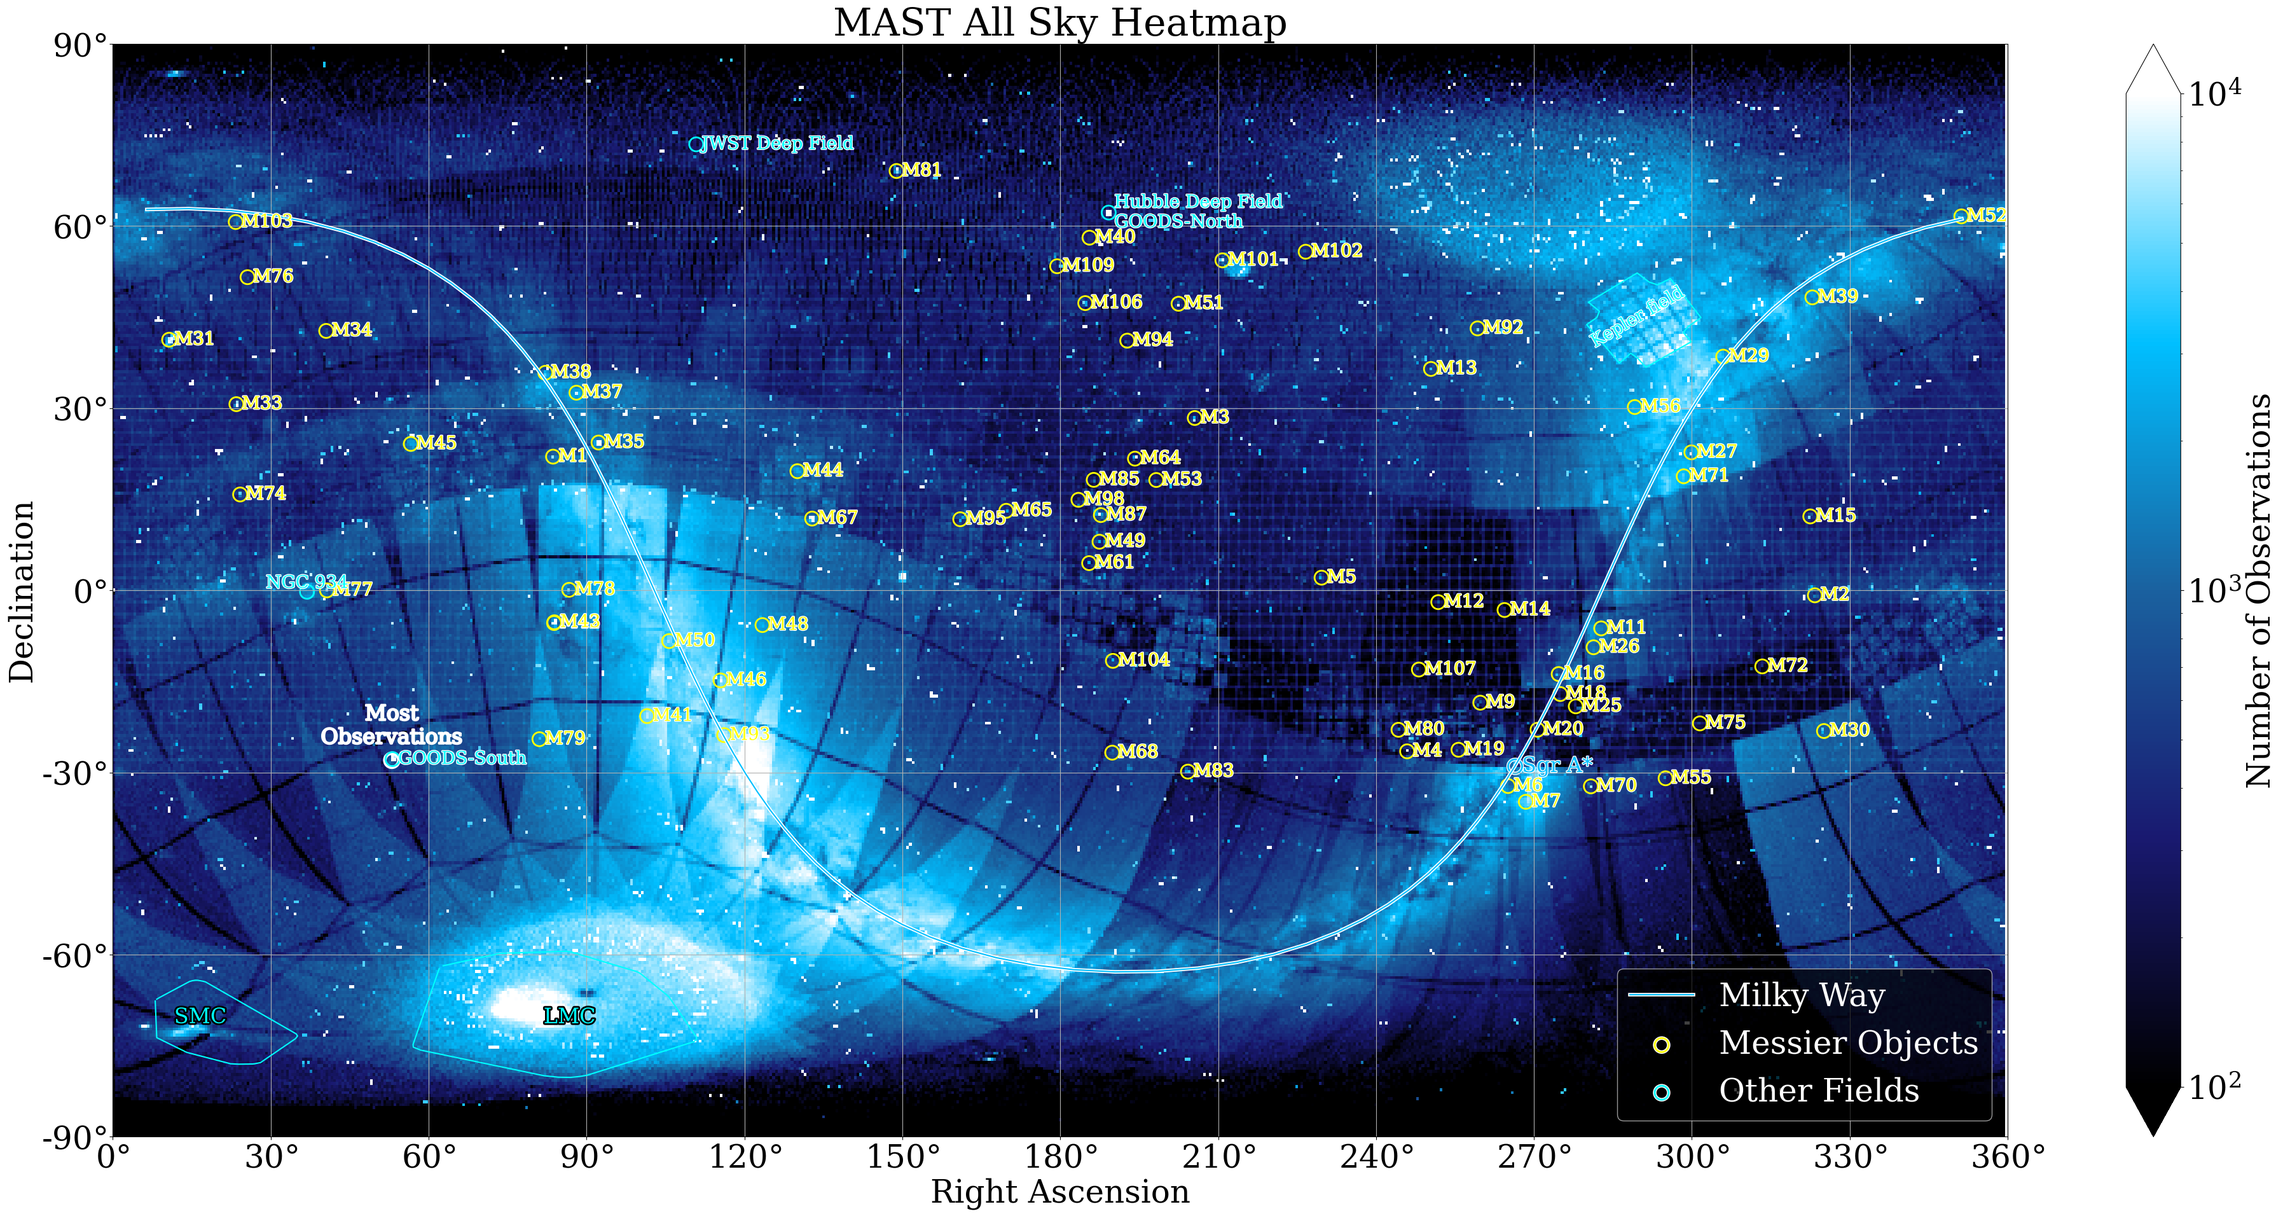
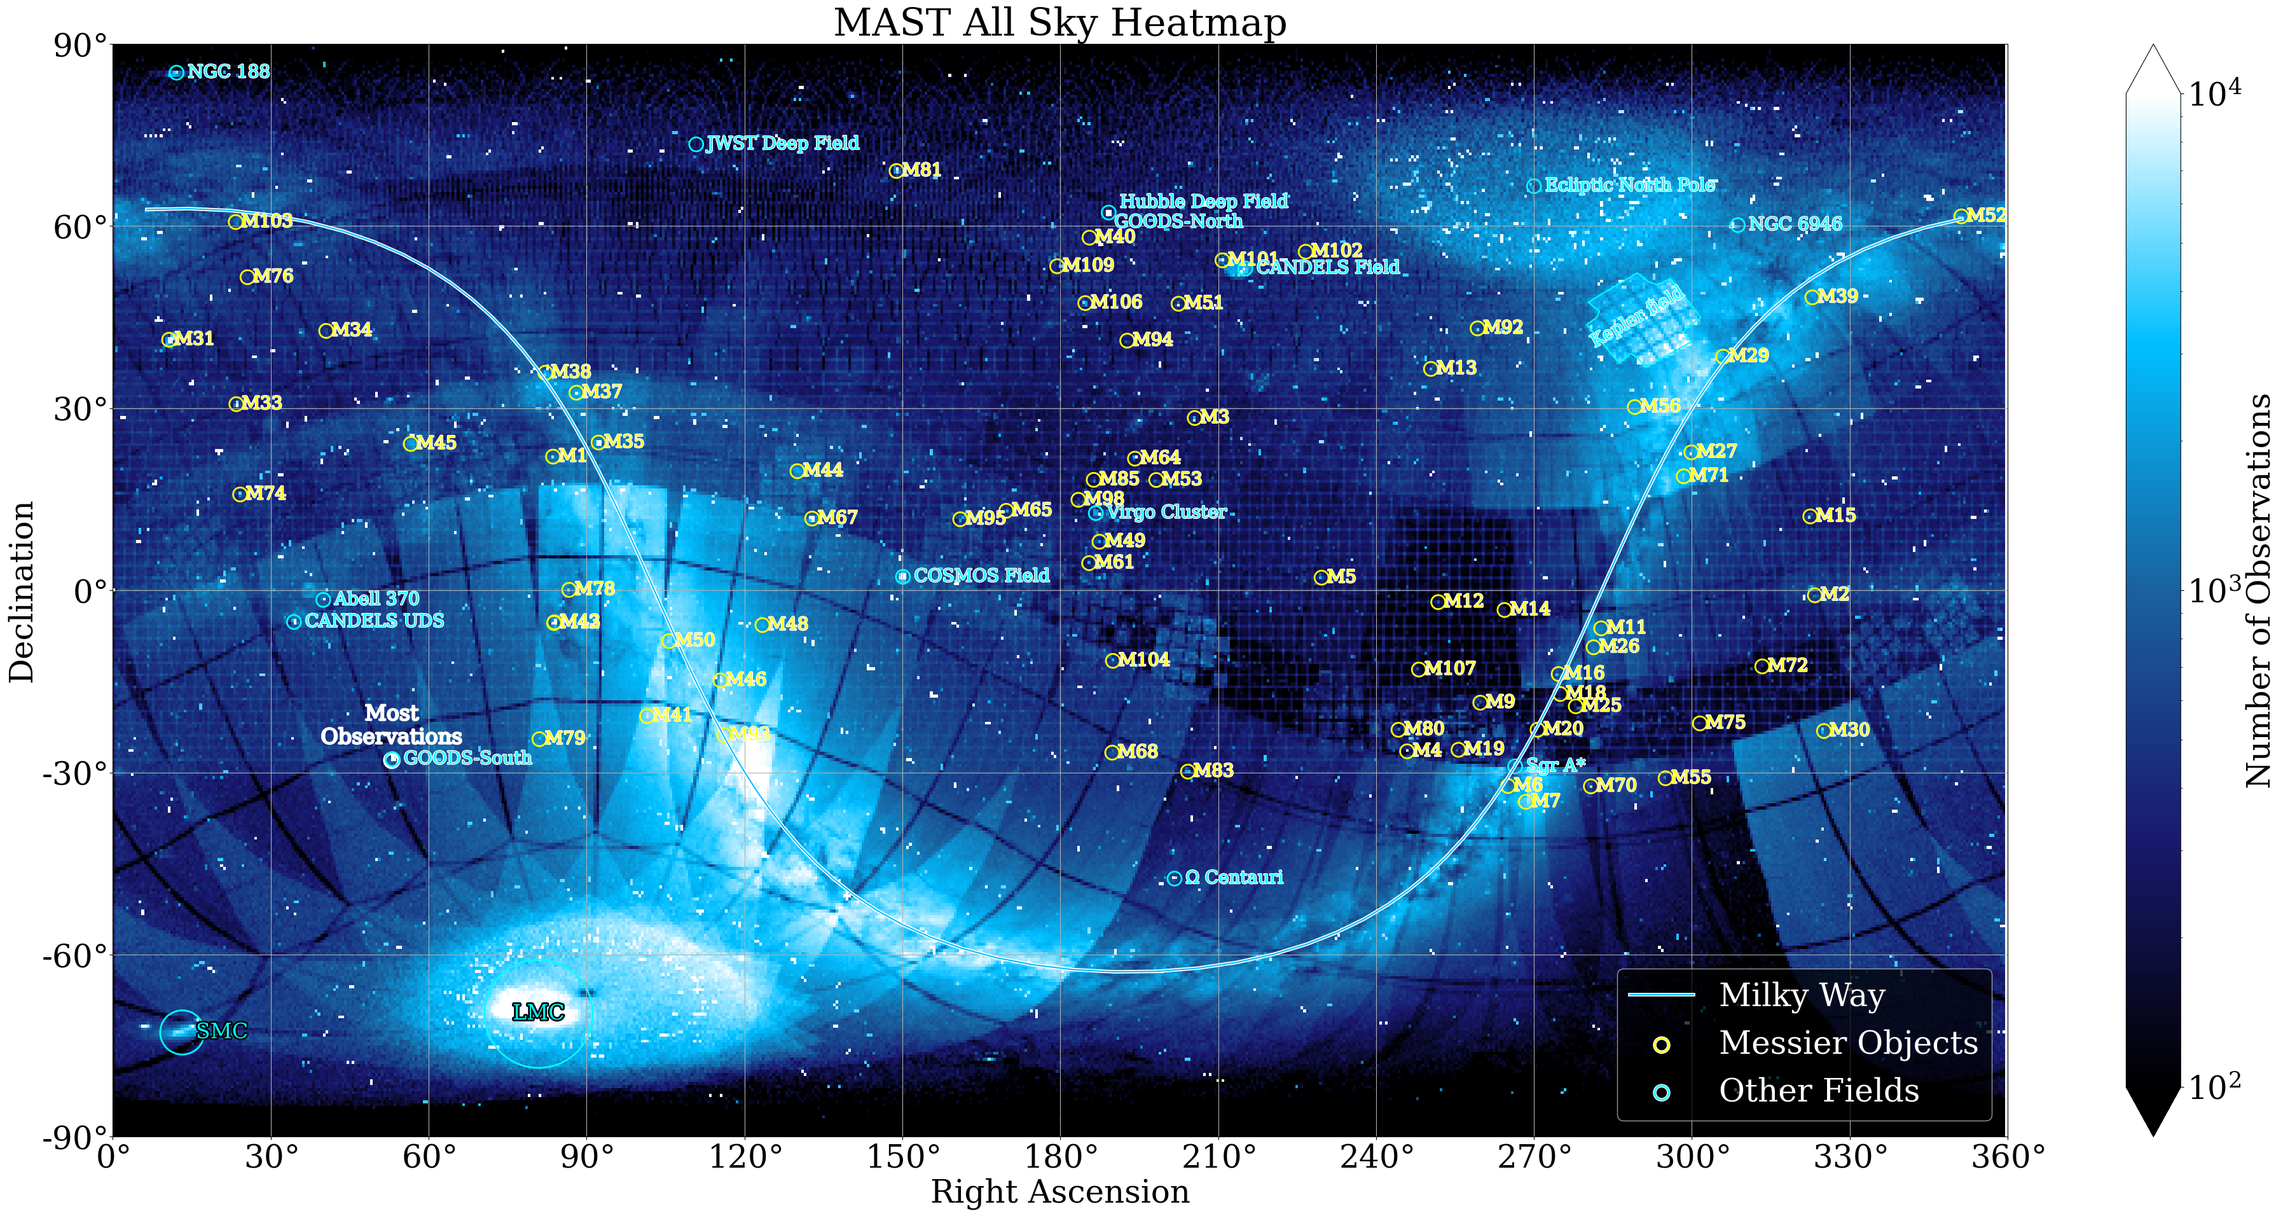
updating blog post

diff --git a/_posts/2025-06-25-mast-heatmap.md b/_posts/2025-06-25-mast-heatmap.md
@@ -9,74 +9,102 @@ tags:
   - fun
   - outreach
 category: fun
-author: MAST Staff
+author: Julie Imig & Thomas Dutkiewicz
 description: Cool MAST wallpapers
 ---
 
-TL;DR - Here are the cool desktop backgrounds. Enjoy! Scroll down for the full story.
-### "Standard" Celestial Coordinates
-![mast background in "standard", surface of the Earth, coordinates](assets/img/posts/20250625/mast_wallpaper_blue.png)
+As of June 2025, MAST contains over *300 million* astronomical observations! That's a lot of data - but what does it look like? 
 
-### Reprojection 1: Ecliptic Coordinates
-![the MAST heatmap, reprojected to the plane of the ecliptic](assets/img/posts/20250625/mast_wallpaper_ecl_blue.png)
-### Reprojection 2: Galactic Coordinates
-![the mast heatmap, projected to galactic coordinates](assets/img/posts/20250625/mast_wallpaper_gal_blue.png)
+These new MAST Wallpapers depict MAST's View of the Sky! Specifically each pixel in these images is colored according to the number of observations at those coordinates. Dark pixels have fewer observations, while brighter pixels have many.
+
+![mast background in "standard", surface of the Earth, coordinates](assets/img/posts/20250625/mast_wallpaper_hires_blue.png)
+
+Scroll down for the full story.
+
+## Downloadable MAST Wallpapers
+Here are the MAST Wallpaper images for you to download and use wherever you'd like!
+
+### Different Coordinate Projections
+
+|  |  |
+| :-------------------------:|:-------------------------:|
+| Celestial Coordinates  (RA, Dec) | ![mast background in "standard", surface of the Earth, coordinates](assets/img/posts/20250625/mast_wallpaper_blue.png) |
+| Ecliptic Coordinates (longitude, latitude) | ![the MAST heatmap, reprojected to the plane of the ecliptic](assets/img/posts/20250625/mast_wallpaper_ecl_blue.png) |
+| Galactic Coordinates  (l, b) | ![the MAST heatmap, reprojected to Galactocentric coordinates](assets/img/posts/20250625/mast_wallpaper_gal_blue.png) | 
+
+
+### DIfferent Colors
+|  |  |   | 
+:-------------------------:|:-------------------------:|:-------------------------:|
+| ![image](assets/img/posts/20250625/mast_wallpaper_hires_blue.png) | ![image](assets/img/posts/20250625/mast_wallpaper_hires_teals.png) | ![image](assets/img/posts/20250625/mast_wallpaper_hires_ylgnbu.png) |
+![image](assets/img/posts/20250625/mast_wallpaper_hires_bluepink.png) | ![image](assets/img/posts/20250625/mast_wallpaper_hires_bupu.png) | ![image](assets/img/posts/20250625/mast_wallpaper_hires_purplepink.png) 
+| ![image](assets/img/posts/20250625/mast_wallpaper_hires_purples.png) | ![image](assets/img/posts/20250625/mast_wallpaper_hires_magma.png) | ![image](assets/img/posts/20250625/mast_wallpaper_hires_pink.png) |
+![image](assets/img/posts/20250625/mast_wallpaper_hires_reds.png) | ![image](assets/img/posts/20250625/mast_wallpaper_hires_reds2.png) | ![image](assets/img/posts/20250625/mast_wallpaper_hires_afmhot.png) |
+![image](assets/img/posts/20250625/mast_wallpaper_hires_gold.png) | ![image](assets/img/posts/20250625/mast_wallpaper_hires_earth.png) | ![image](assets/img/posts/20250625/mast_wallpaper_hires_viridis.png) |
+| ![image](assets/img/posts/20250625/mast_wallpaper_hires_bnw.png)| ![image](assets/img/posts/20250625/mast_wallpaper_hires_rainbow.png) | ![image](assets/img/posts/20250625/mast_wallpaper_hires_pastels.png) |
+
 
 ## So, What am I looking at?
-You're looking at MAST's view of the sky! Specifically, each pixel in these images is colored according to the number of observations archived at those coordinates. Dark pixels have fewer observations, while brighter pixels have many.
+
+There's a lot going on in this image - here's an annotated version to help decipher what you are looking at!
+
+![an annotated version of the heatmap](assets/img/posts/20250625/annotated.png)
+
+This is a plot of celestial coordinates *Right Ascension* (on the x-axis) and *Declination* (on the y-axis), where each pixel is colored by the number of observations in MAST at that coordinate, randing from 0 (black) to 10,000 (white).
+
+You might notice some features in this image which highlight different telescopes. For example, the bright rectangles (most obvious in the bottom half of this plot) are [TESS Sectors](https://tess.mit.edu/observations/). Similarly, the "+" shaped stamps along the ecliptic plane are the characteristic footprint of [the Kepler and K2 Missions](https://archive.stsci.edu/missions-and-data/k2).
+
+Many of the most-observed areas of the sky correspond to interesting astromical objects, Such as the U-shaped curve of the Milky Way, our neighbor galaxies the LMC and SMC, or the various star clusters and nebulae in the Messier catalog.
+
+The winner for the most observed area in the sky is the [GOODS-South Field](https://webbtelescope.org/contents/media/images/2021/004/01EX2AXKF1EKA0J7K1965PCNBC), a galaxy-rich field containing over 7,500 galaxies used to study the formation history of the Universe.
+
+### Different Missions
+
+MAST contains data from over 23 different missions, all of which have their own unique footprint on the sky. This figure shows the footprint for 16 different data collections, showing the sky map and number of observations in each. 
+
+![16 images, showing this map for various MAST missions](assets/img/posts/20250625/mast_missions.png)
+
+You'll see that the coverage of the sky depends highly on which mission you select! HST and JWST have observed lots of scattered points across the whole sky. Compare that to something like Pan-STARRS, which uniformly covered the entire sky north of declination -30 degrees.
+
+The largest collection, by far, is our [High-Level Science Products](https://mast.stsci.edu/hlsp/#/). This is due, in part, due to intense community interest in reprocessing TESS observations.
+
+
+### Evolution of MAST
+
+This animated GIF shows how the archive has built up over time:
+
+![animated GIF, showing the evolution on the sky of MAST observations over time](assets/img/posts/20250625/mast_movie.gif)
+
+Starting with the launch of HST in 1990, only small points of the sky were observed and start to build up over time. Around 2010, data from the Sloan Digital Sky Survey (SDSS) comes into play and starts to cover larger areas of the sky. When TESS launched in 2019, the data really explodes. The upcoming launch of the Roman Space Telescope will add over 20,000 terabytes more data to MAST!
 
 ## How did you make this?
-First, consider a "typical" use of the archive: astronomers query for and access data from space telescopes. This is a two stage process: you might start by querying for HST observations of M101 in the ultraviolet range, then download all calibrated files produced by those observations. The first step is a metadata search, where you filter on telescope, wavelength, and [other fields we make searchable in our CAOM metadata database](https://mast.stsci.edu/api/v0/_c_a_o_mfields.html).
 
-MAST is not *merely* a data archive; we spend lots of time and effort making sure that our metadata are accurate, too. Given that we have over 250 million observations in our archive, this is no small feat. Using the coordinates of all observations in our database, we can create this density plot on the sky!
+First, consider a "typical" use of the archive: astronomers want to download data from a telescope. This is a two stage process: you might start by querying for HST observations of M101 in the ultraviolet range, then download all calibrated files produced by those observations. The first step is a metadata search, where you filter on telescope, wavelength, and [other fields we make searchable in the MAST metadata database](https://mast.stsci.edu/api/v0/_c_a_o_mfields.html).
+
+MAST is not *merely* a data archive; we spend lots of time and effort making sure that our metadata are accurate, too. Given that we have over 300 million observations in our archive, this is no small feat. Using the central coordinates of all observations in our database, we can create this density plot on the sky!
+
 ## Yeah, but like, HOW specifically did you make this?
 
-### First Version: Intelligent Requests
-Our initial goal was for pixels half a degree wide, so there were `720x360=259200` regions for which we needed to know the total number of observations. Spamming our own servers with one request for each of the 2.6 million regions either requires immense patience (I'm not waiting 30 days for an answer!) or performing a [denial-of-service attack](https://en.wikipedia.org/wiki/Denial-of-service_attack) on our own servers. The other extreme would be to do a single query, loading the entire database into memory. Clearly absurd<sup>1</sup>.
+Put simply, these plots were made by querying the MAST metadata database to retrieve the central coordinates of every observation using an [ADQL](https://en.wikipedia.org/wiki/Astronomical_Data_Query_Language) query. "Dear MAST, please send me the RA and Dec of every observation you have!"
 
-<small><sup>1</sup> Unless....?</small>
+Because there are so many observations in MAST, this cannot be done in a single query unless your computer has a very large amount of RAM, so we do not recommend trying to do this at home.
 
-Instead, the first successful image was produced with data from 720 [ADQL](https://en.wikipedia.org/wiki/Astronomical_Data_Query_Language) queries, avoiding a DoS attack while also working with reasonable RAM limitations. Here's roughly how the code works:
-1. Perform an ADQL query to get vertical slices of the sky. For the first slice, as an example, it would be: 
-```
-SELECT trgposRA,trgposDec FROM [REDACTED].[CaomObservation] WHERE (trgposRA < 0.5 AND targposRA >= 0)
-``` 
-Or, "Dear CAOM, please send me the coordinates of every observation with an RA between 0" and 0.5".
-2. The resulting vertical slice is`1/720` of the entire database. In our actual code, it is a pandas dataframe; we can use a mask to filter on the declination values and get a count. Here's how we accomplished this in practice:
-```
-for dec in dec_sample: 
-	mask = (data['trgPosDEC']>=(dec-(degree_res/2)))&(data['trgPosDEC']<(dec+(degree_res/2))) 
-	num_obs = sum(mask) 
-	obs_array.append(num_obs)
-```
-
-3. We now have the first vertical slice broken up into 360 pieces, with a count for each. We can repeat steps 1&2 until we have data for the entire sky.
-
-Following this recipe produces an image like the one below:
-![the first, lower resolution version of the wallpaper](assets/img/posts/20250625/mast_wallpaper_blue_og.png)
-<small>The first version of the MAST background, with pixels half a degree wide. The intrinsic resolution of our data is therefore 720x360, which results in some noticeable pixellation. </small>
-
-Looks phenomenal! Many archive scientists were super excited to see this.
-### Revised Version: RAM go brrrr
-Now, producing this image is very cool. But 360 pixels?? Surely we can get something at a higher resolution than that. However, it took us 2 hours of queries to get the above image, and unfortunately doubling the resolution means the queries will take four times as long.
-
-Unless....
-
-We said it would be unreasonable to load the entire archive into RAM. But what if we just try it? Drop the filters on the query and just send me everything!
-```
-SELECT trgposRA,trgposDec FROM [REDACTED].[CaomObservation]
-```
-
-Much to our surprise, it worked! With the entire database in memory, we could now create images of arbitrary resolution. With `matplotlib.plt.hist2d`, it's trivially easy to specify the desired resolution of the image and let matplotlib handle the details. Just, uh... don't have too many other applications open.
+<small>*WARNING: Do not try this at home!*</small>
 ![a screenshot showing that Python is currently consuming 51.86GB of RAM](assets/img/posts/20250625/brrrrr.png)
-At the end of this shockingly quick — roughly 2 minute— process, you'll have the first image from the intro:
+
+At the end of this process, you'll have the first image from the intro of this post:
 ![mast background in "standard", surface of the Earth, coordinates](assets/img/posts/20250625/mast_wallpaper_blue.png)
 <small>A deliciously crispy 15000x7500 image of MAST's view of the sky. Ah, the smell of roasting RAM in the office.</small>
-### Revised Version addendum: Reprojection
-Now this is neat, but we have another trick up our sleeves: [astropy.coordinates](https://docs.astropy.org/en/stable/coordinates/index.html). Thankfully, our friends at astropy love to optimize code, and it was pretty painless to reproject all of CAOM into another frame. Of the [available coordinate systems](https://docs.astropy.org/en/stable/coordinates/index.html#module-astropy.coordinates.builtin_frames), we went with `geocentricmeanecliptic` and `galactic`. 
+
+### I want to make my own map!
+
+*You probably should not do this!* The exact query used is intentionally not included in this post because it will impact the performance of our server if a bunch of people attempt it. If you're serious about wanting to make your own MAST visualizations, contact the MAST help desk at archive@stsci.edu and we can help direct you to the right data. A Jupyter Notebook tutorial showing how to make some of the plots in this blog post will be added to the [MAST Notebooks Library](https://spacetelescope.github.io/mast_notebooks/intro.html) sometime soon!
+
+### Coordinate Reprojection
+Now this is neat, but we have another trick up our sleeves: [astropy.coordinates](https://docs.astropy.org/en/stable/coordinates/index.html). Thankfully, our friends at astropy love to optimize code, and it was pretty painless to reproject all of MAST into another frame. Of the [available coordinate systems](https://docs.astropy.org/en/stable/coordinates/index.html#module-astropy.coordinates.builtin_frames), we went with `geocentricmeanecliptic` and `galactic`. 
 
 #### Projection 1: Ecliptic
-As a quick refresher, CAOM uses coordinates aligned to the celestial pole, which is aligned to our rotating Earth. A declination of +90 is directly overhead the north pole, while -90 is directly overhead the south pole. Our first transformation is to the ecliptic plane, aligned instead to Earth's orbit around the sun:
+As a quick refresher, MAST uses coordinates aligned to the celestial pole, which is aligned to our rotating Earth. A declination of +90 is directly overhead the north pole, while -90 is directly overhead the south pole. Our first transformation is to the ecliptic plane, aligned instead to Earth's orbit around the sun:
 ![a diagram showing how the ecliptic plane is defined](assets/img/posts/20250625/Earths_orbit_and_ecliptic.svg)
 <small>By <a href="//commons.wikimedia.org/wiki/User:CielProfond" title="User:CielProfond">CielProfond</a> - <span class="int-own-work" lang="en">Own work</span>, <a href="https://creativecommons.org/licenses/by-sa/4.0" title="Creative Commons Attribution-Share Alike 4.0">CC BY-SA 4.0</a>, <a href="https://commons.wikimedia.org/w/index.php?curid=156276169">Source</a></small>
 
@@ -93,25 +121,10 @@ Galactic coordinates are, somewhat counter-intuitively, still centered on our Su
 The nice thing about using the galactic coordinate system is that most stars are near the plane of the galaxy, so it shows up quite nicely on our plot!
 ![the mast heatmap, projected to galactic coordinates](assets/img/posts/20250625/mast_wallpaper_gal_blue.png)
 <small>The Milky Way, as seen by MAST. Come on, TESS! Observe that last little part in the middle so we can see the whole galaxy.</small>
+
 ## Conclusions and Other Thoughts
 It's pretty dang cool that through metadata alone, we can reconstruct the shape and even texture of the milky way. These images, which are gorgeous, are also a powerful reminder that MAST has a lot of data. And this is a reminder that those data are free for anyone to access, so check them out through our [search forms](https://mast.stsci.edu/search/ui) or our [astroquery API](https://spacetelescope.github.io/mast_notebooks/intro.html)!
 
-If you've read this far, thanks. Here are a few extra tidbits that you might be thinking about right now:
-### Hey, what is that thing I see?
-Great question. Take a look at our annotated map, which highlights a few points of interest.
-![an annotated version of the heatmap](assets/img/posts/20250625/annotated.png)
+### Stay tuned for more!
 
-### I want to make my own map!
-You probably should not do this! It's a pretty large database query, and will degrade the performance of our server if a bunch of people attempt it.
-
-If you absolutely MUST make your own version, please use this [TAR file containing all CAOM observations](https://stsci.box.com/s/ok36t5mmczw6jjj4d6kcmsiiur6vmh1m). Pandas will know how to read it, with a quick `pd.read_pickle()`.
-
-### What does this look like for individual missions?
-If you also `SELECT obs_collection` from CAOM, you can build up this map for a particular mission. You'll see that the coverage of the sky depends highly on which mission you select! The largest collection, by far, is our [High-Level Science Products](https://mast.stsci.edu/hlsp/#/). This is due, in part, due to intense community interest in reprocessing TESS observations.
-![16 images, showing this map for various MAST missions](assets/img/posts/20250625/mast_missions.png)
-
-### What does this look like over time?
-You can also `SELECT t_min` to get the observation start time, which allows you to build up a picture of the archive over time:
-![animated GIF, showing the evolution on the sky of MAST observations over time](assets/img/posts/20250625/mast_movie.gif)
-
-Want more visualizations? Stay tuned to the blog! We'll post anything new here.
+If you've read this far, thanks! Want more visualizations? Stay tuned to the blog! We'll post anything new here.
